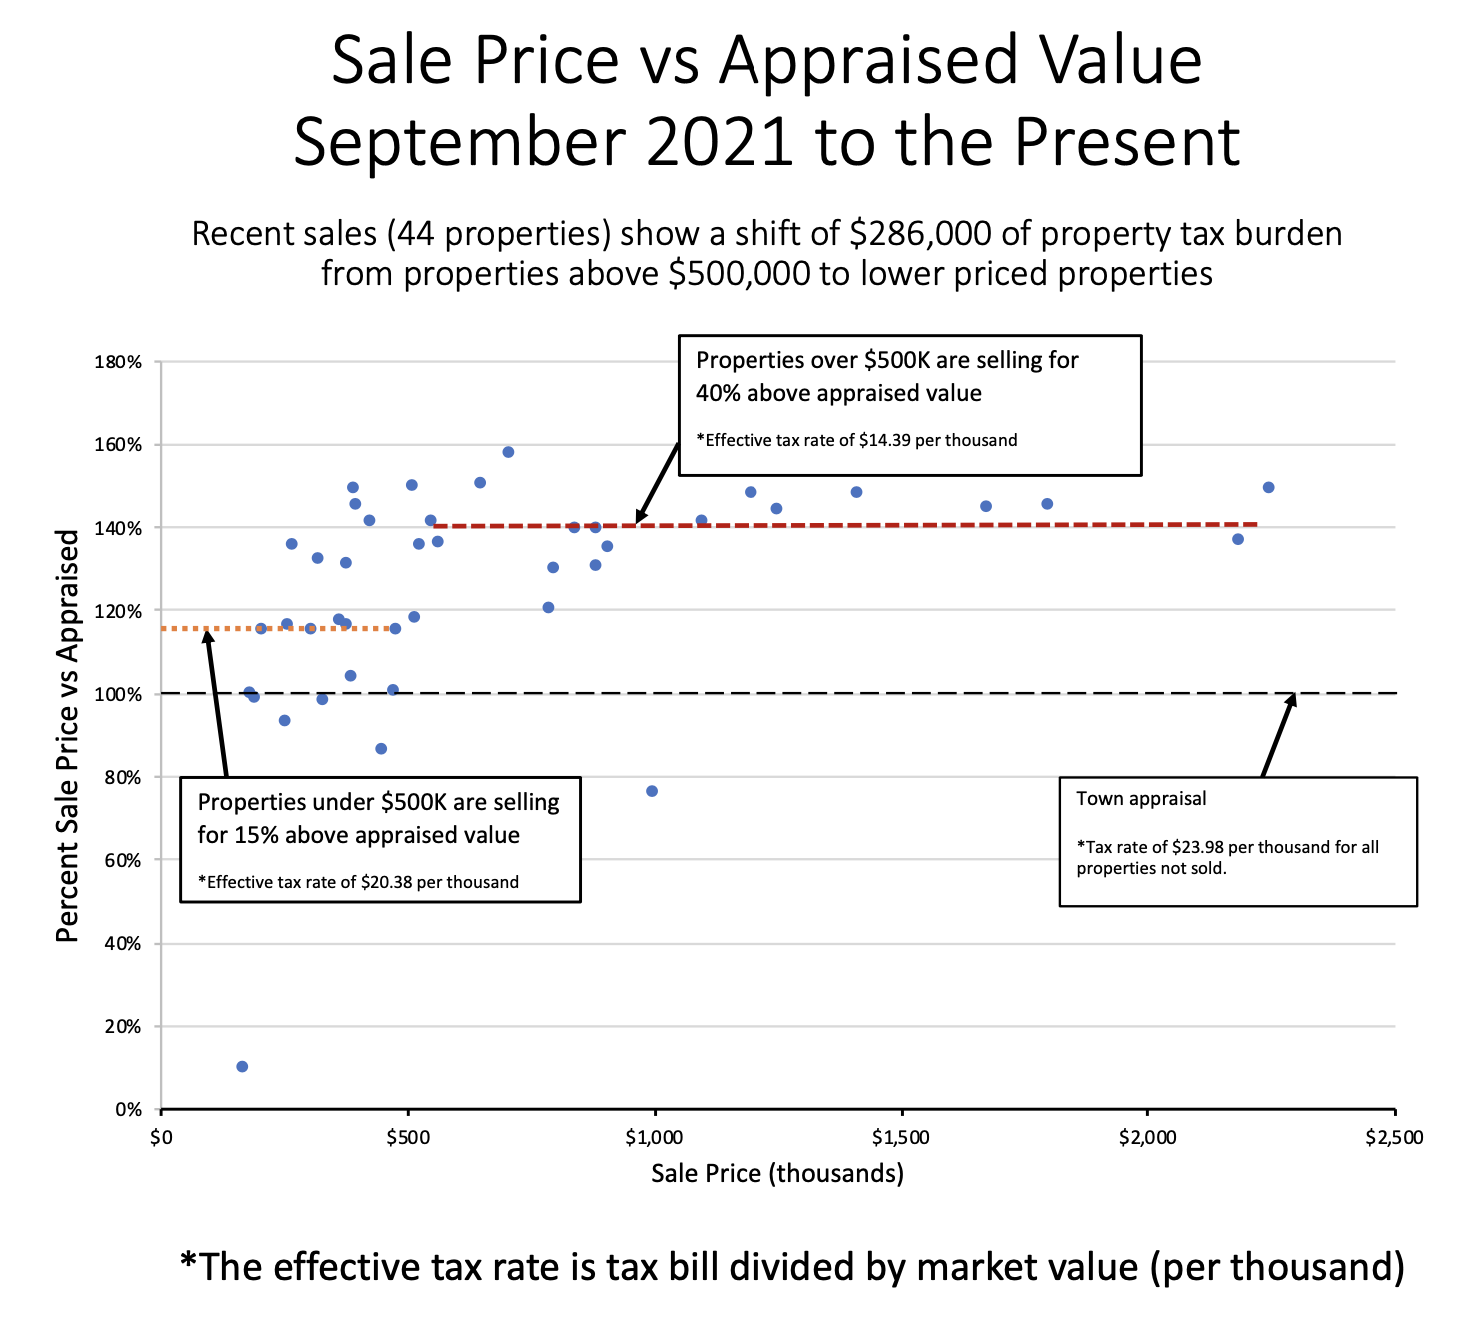
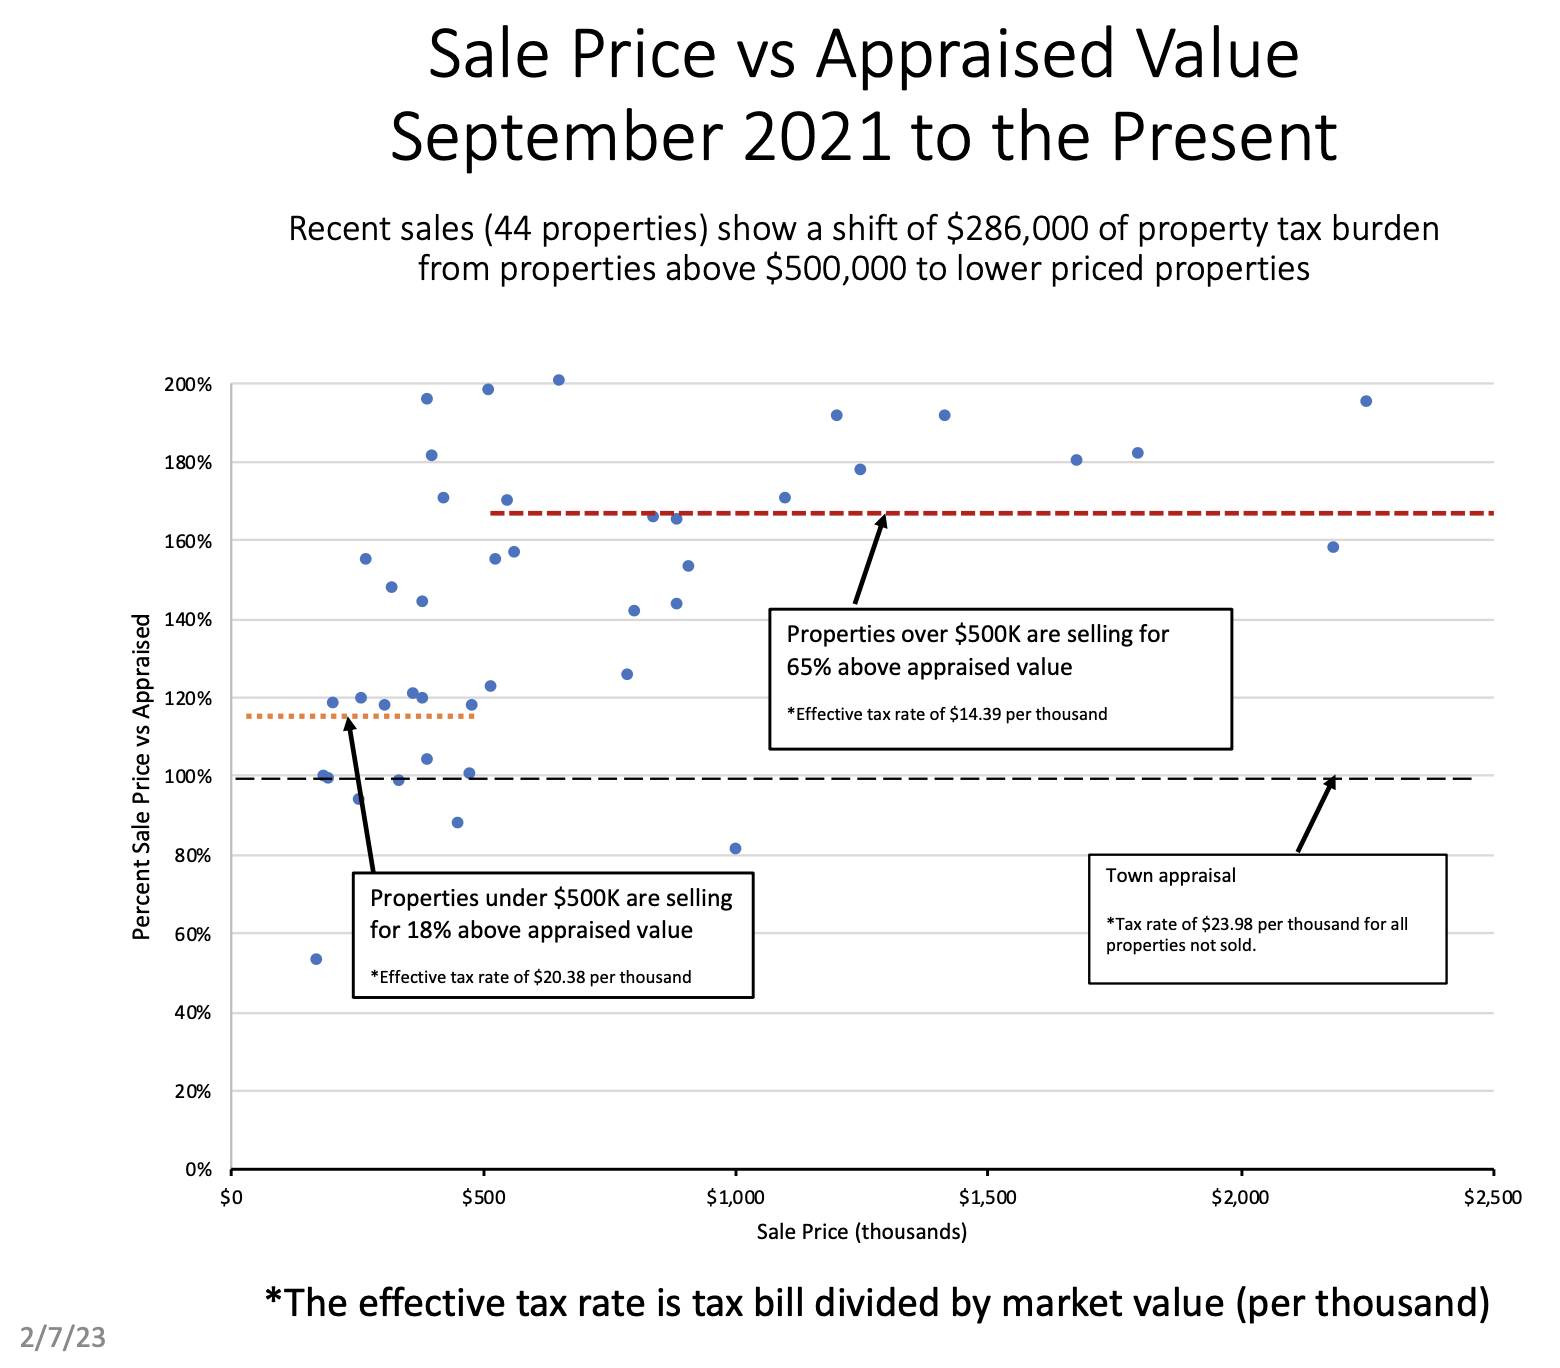
Update chart to match HQ recent dataset

diff --git a/About.md b/About.md
@@ -18,9 +18,9 @@ With those changes in appraised values, taxes on the lower-value properties incr
 but the tax on higher-valued properties increased only 4.4%.
 
 More recently &mdash; in the last 15 months &mdash; properties selling
-for more than \$500,000 have sold on average for 40% more than
+for more than \$500,000 have sold on average for 65% more than
 their town-appraised value while properties selling for less than \$500,000
-on average sold for 15% more than their town-appraised value.
+on average sold for 18% more than their town-appraised value.
 
 The following chart of those 44 recent sales shows how the inequity
 continues from the 2021 revaluation into this year.
